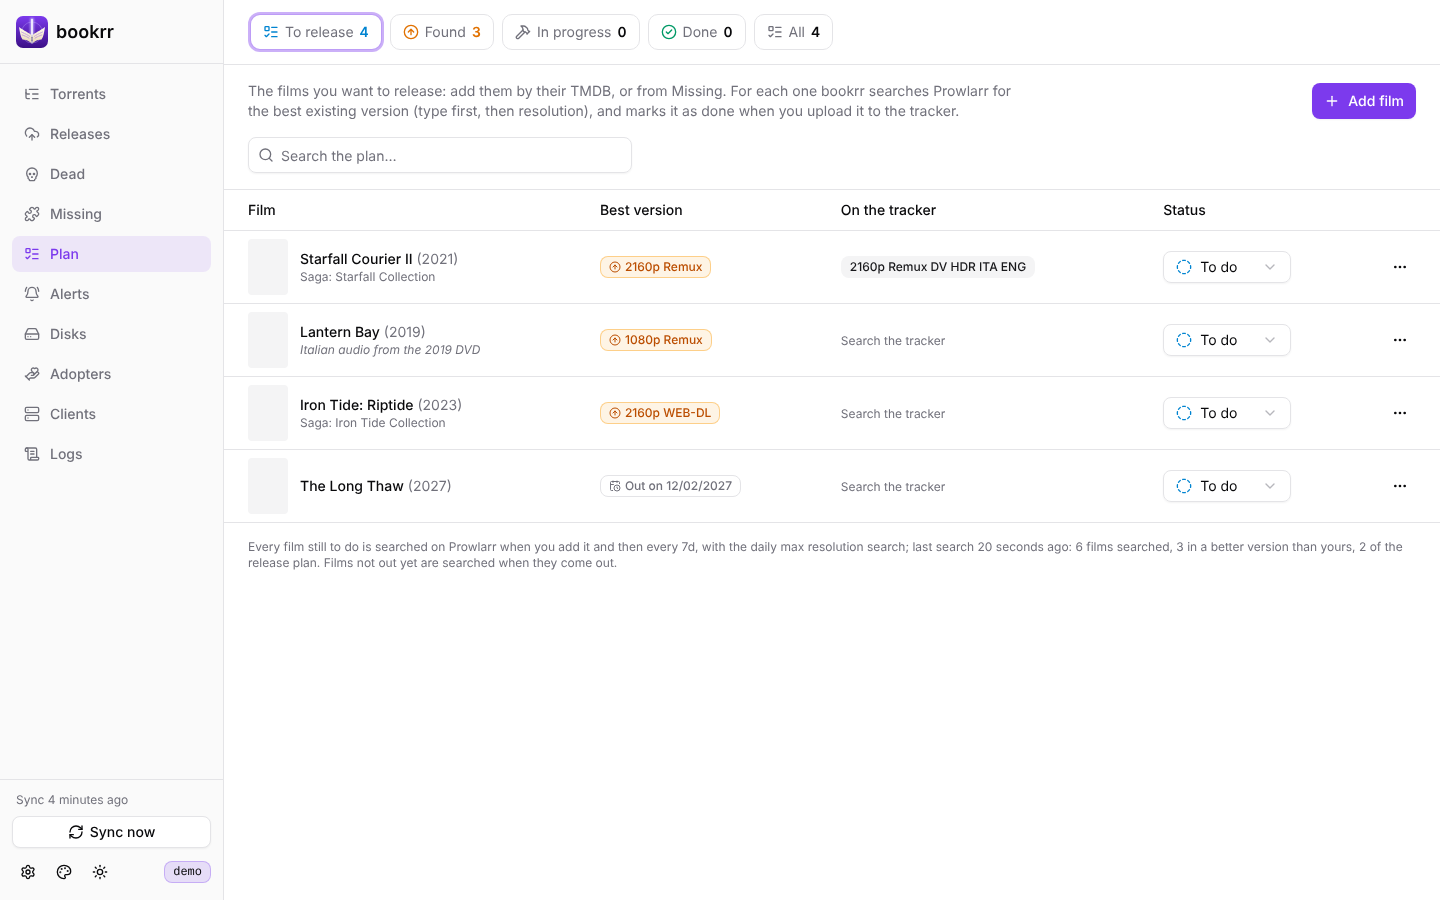
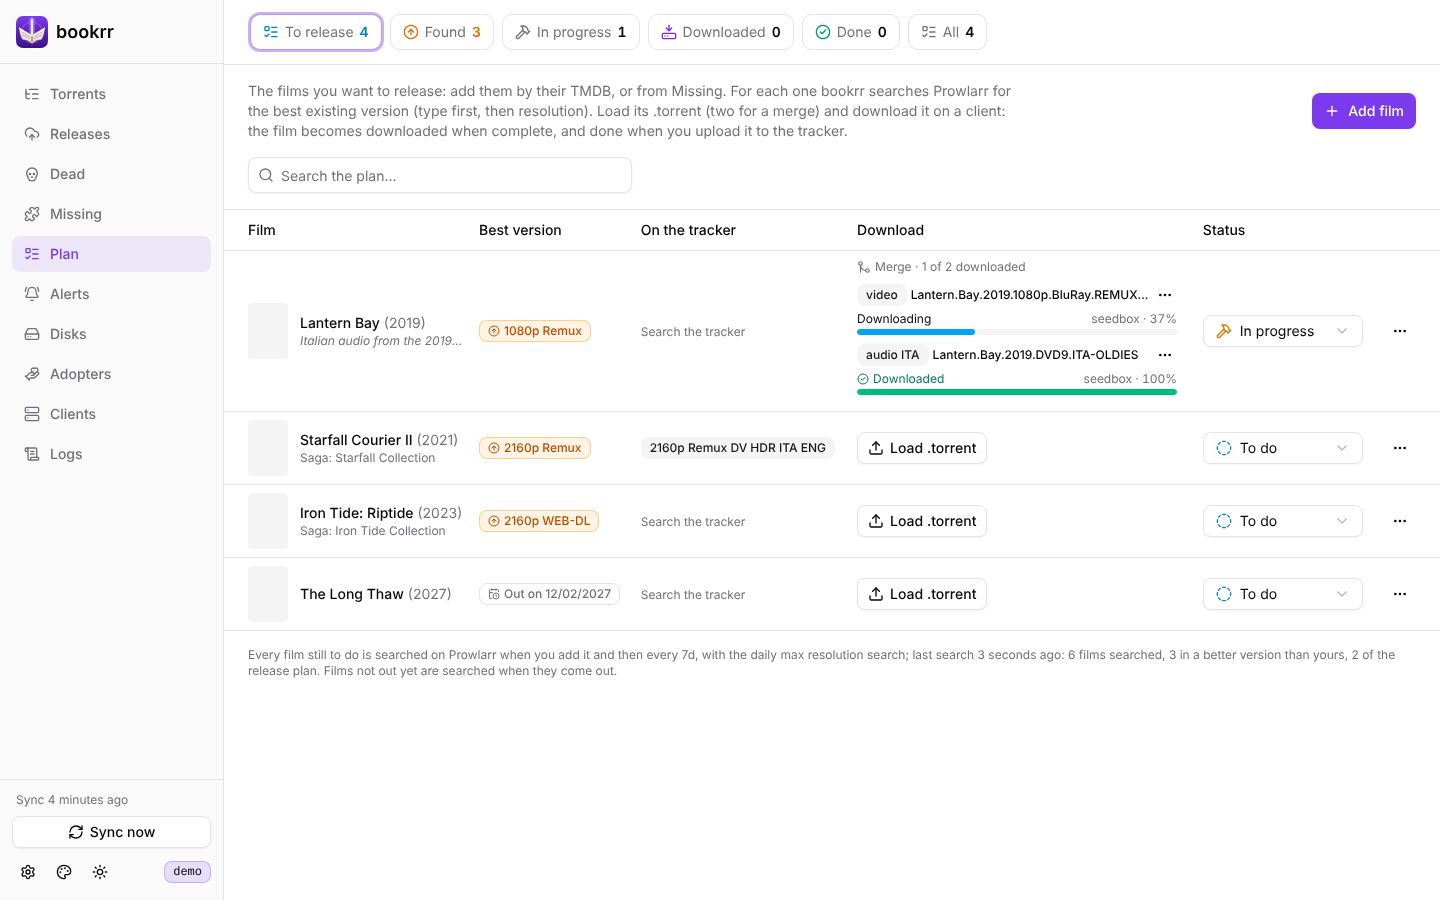
Plan: wider status select, updated screenshot
"In progress" no longer gets cut, and the screenshot of the plan shows
a merge being downloaded.

Claude-Session: https://claude.ai/code/session_019CEh6Etkm3WAYwa2QZuC2n

diff --git a/web/src/components/plan-page.tsx b/web/src/components/plan-page.tsx
@@ -331,7 +331,7 @@ export function PlanPage({ onResolve }: { onResolve: (a: Alert) => void }) {
                       value={it.status}
                       onValueChange={(v) => update.mutate({ id: it.id, status: v as PlanStatus })}
                     >
-                      <SelectTrigger size="sm" className="w-36">
+                      <SelectTrigger size="sm" className="w-40">
                         <SelectValue />
                       </SelectTrigger>
                       <SelectContent>
